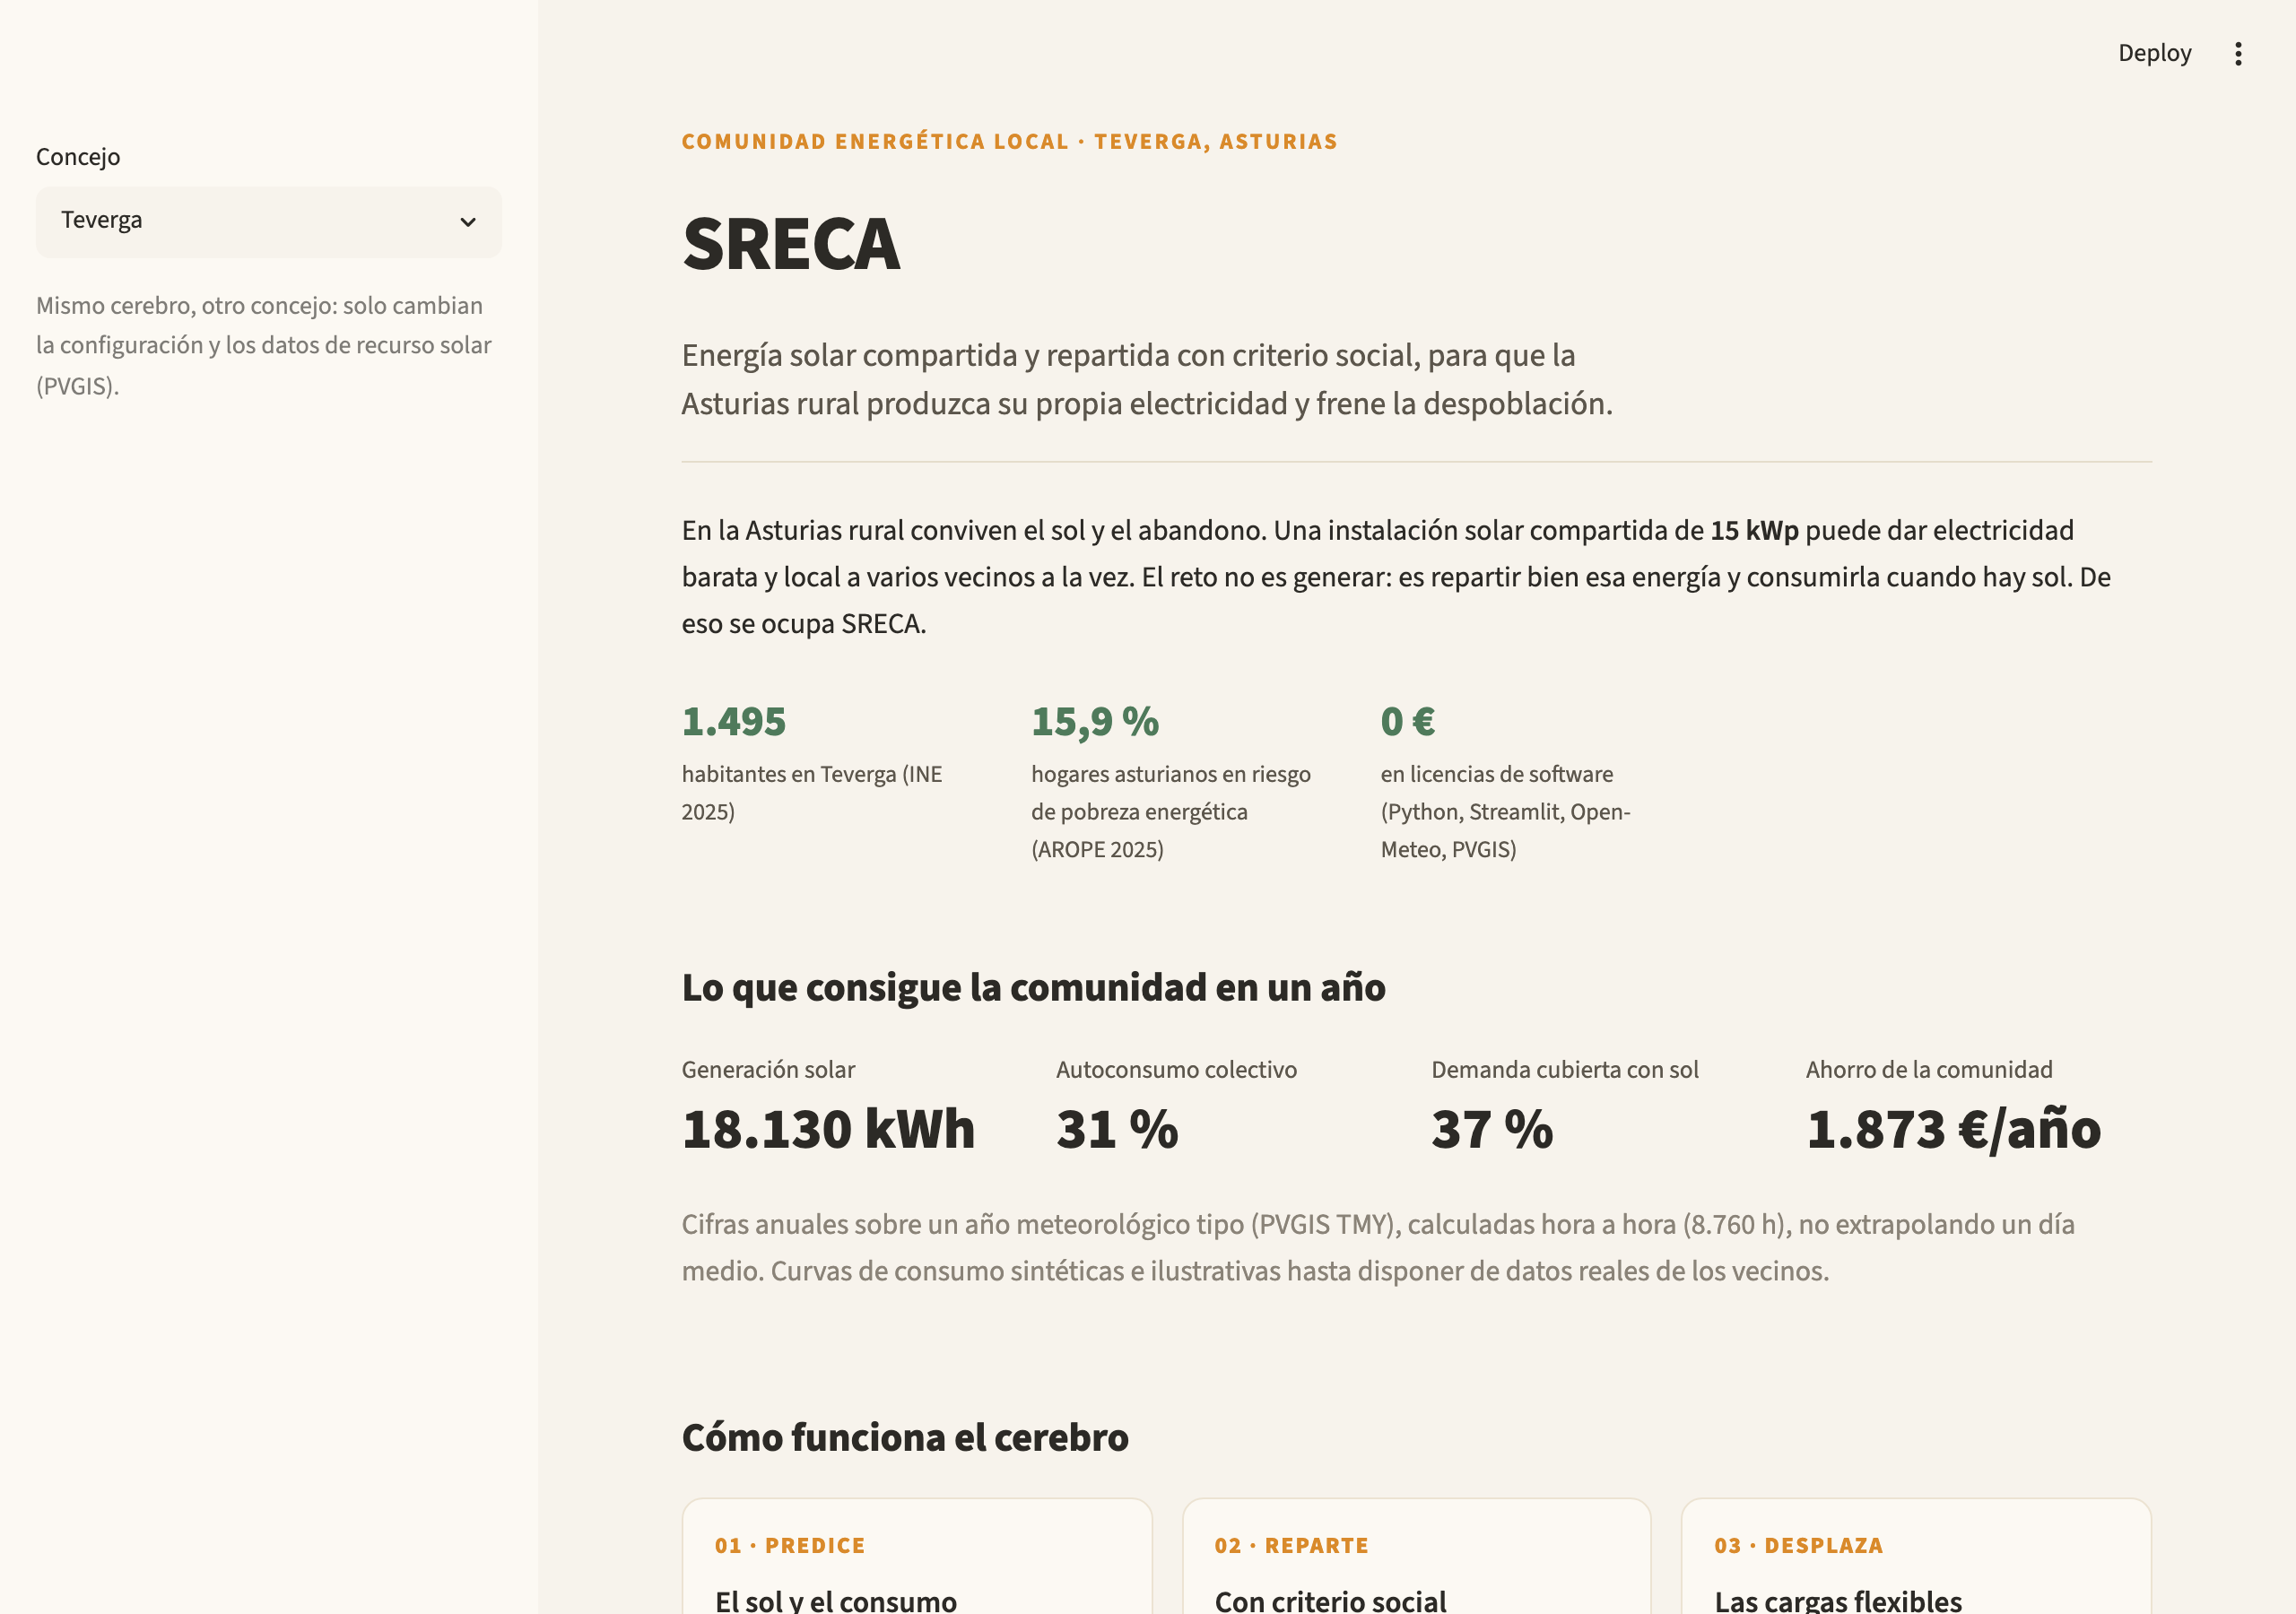
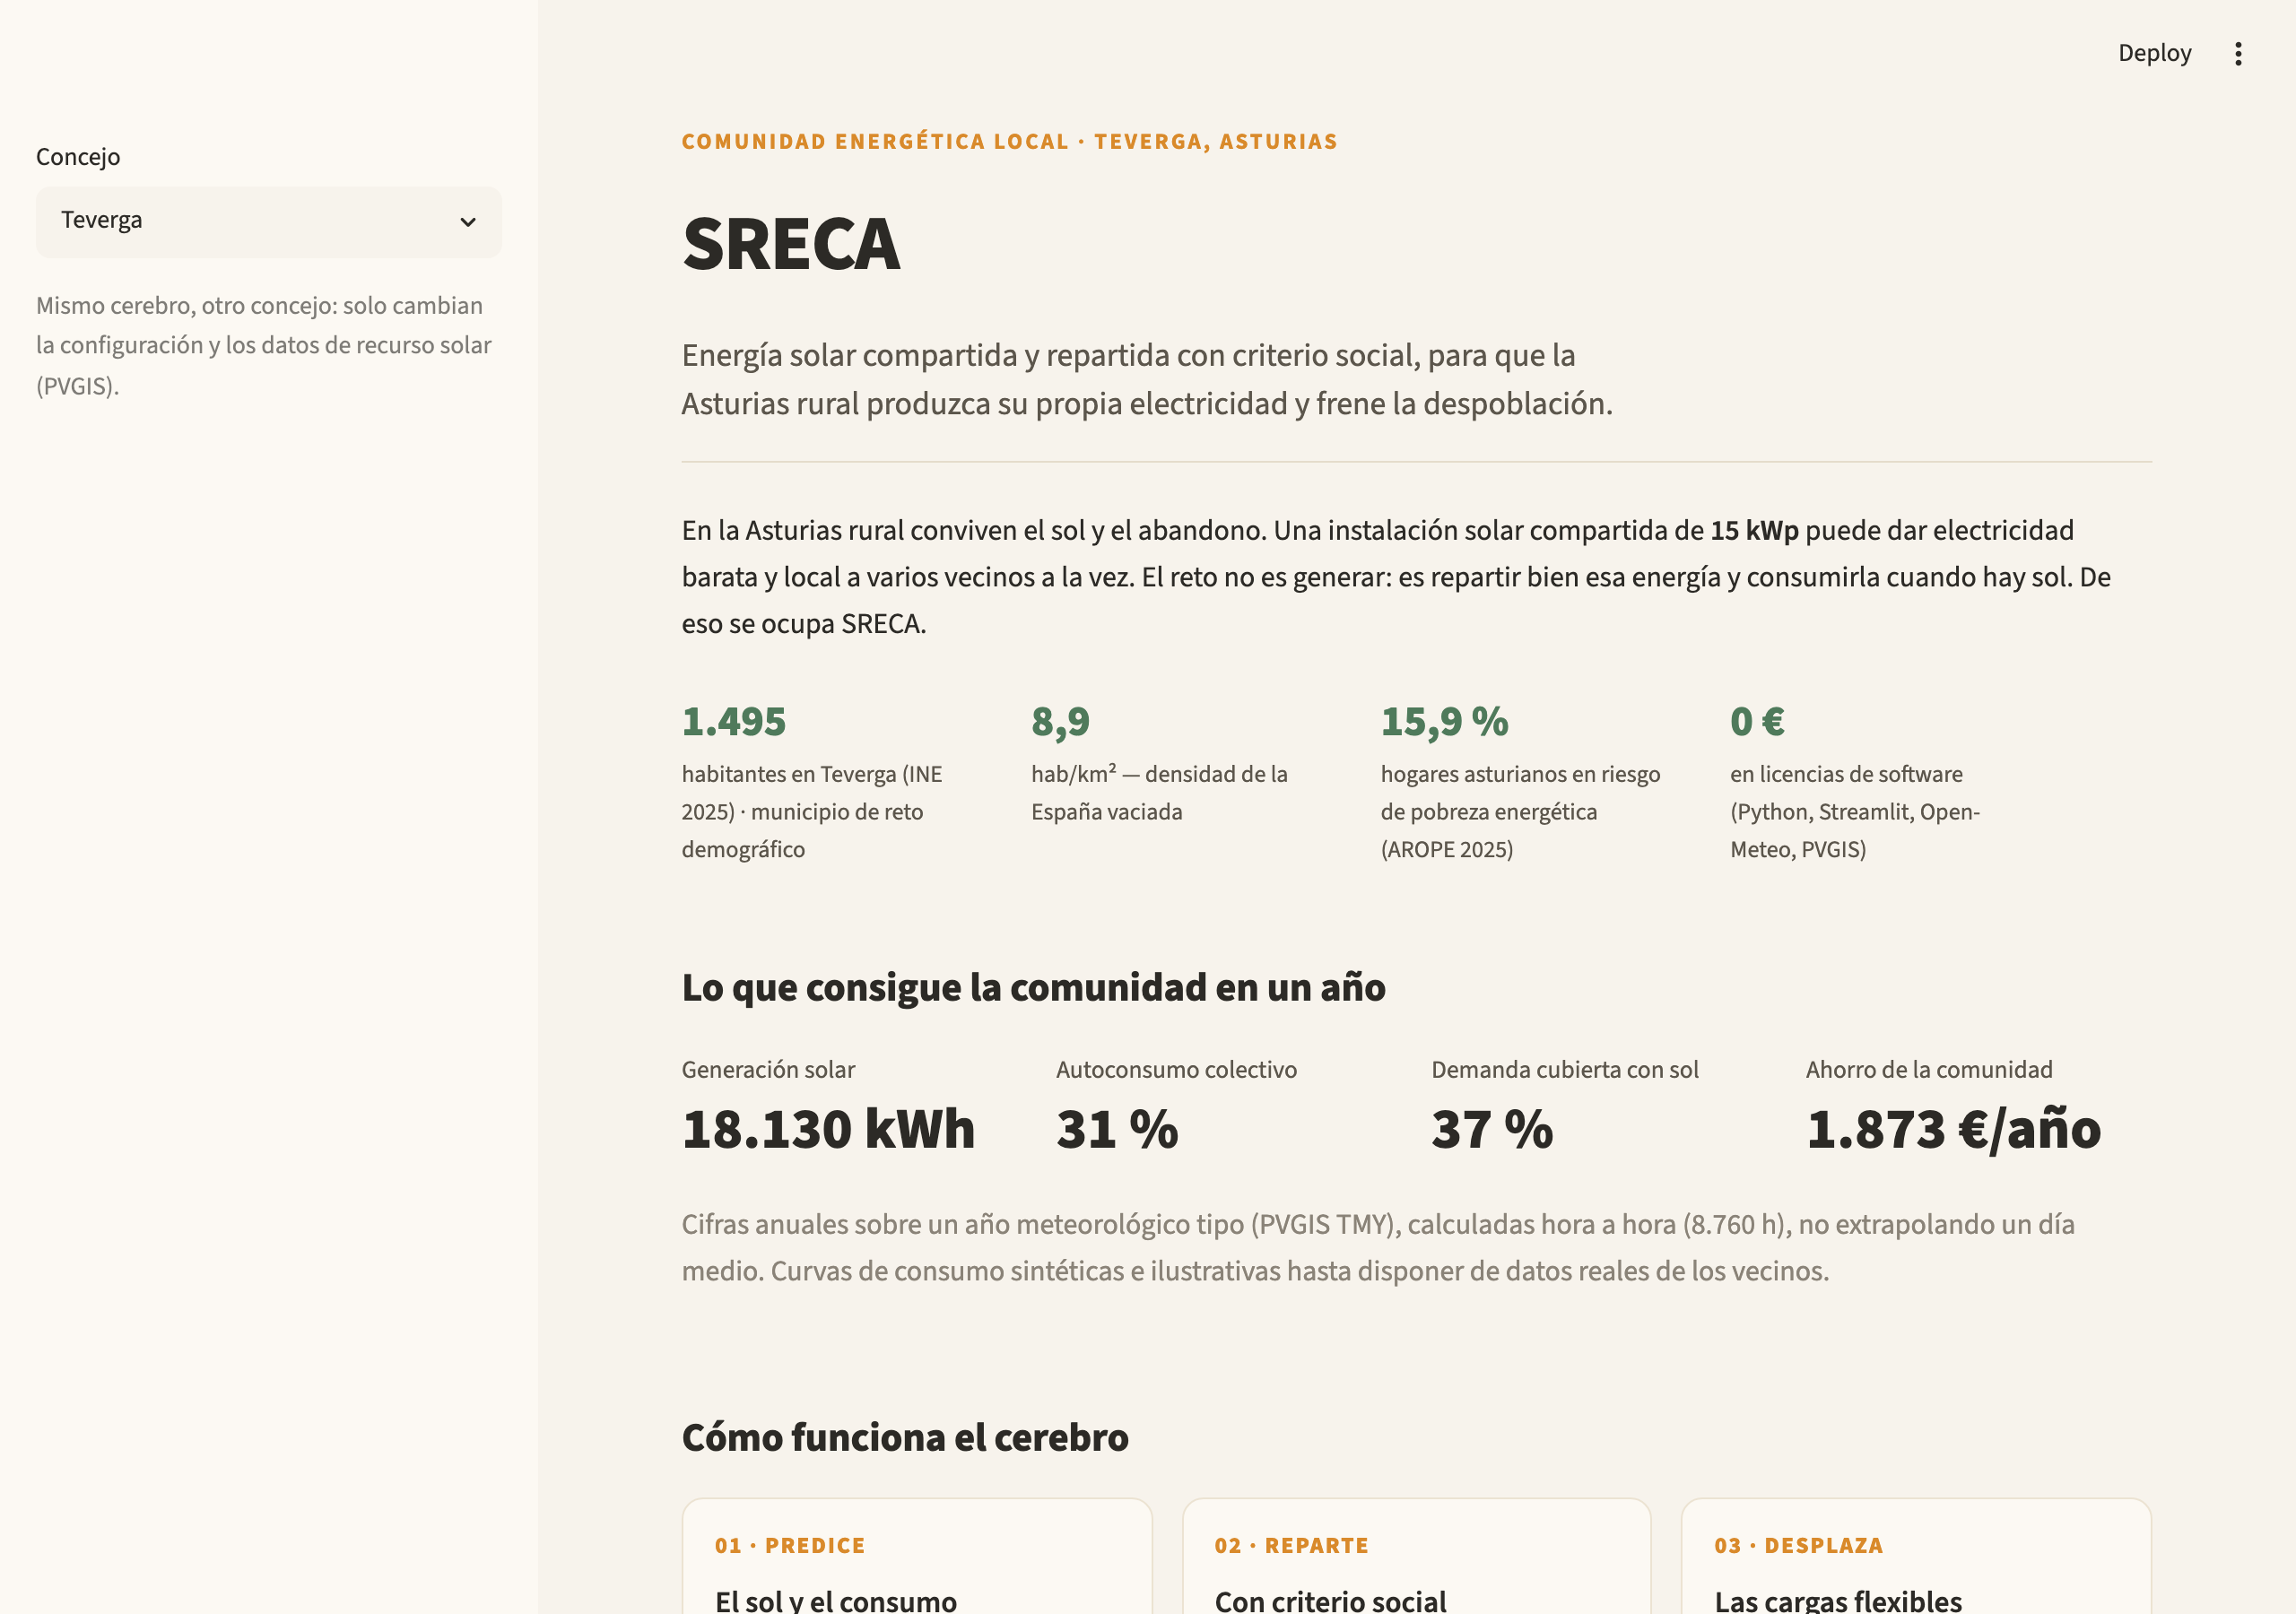
Ground the dashboard in source-verified official data
Replace placeholder/missing demographic figures with INE padrón data
verified directly against the source (tempus API table 2886), not search
summaries: Teverga 1.495 and Somiedo 1.031 (1-ene-2025), each with its
official surface area. Density is now derived (population/area), never
duplicated. Somiedo's population was deliberately blank ("no fabricated
public number") until this at-source verification; now filled.

Add a minimal territory/reto-demográfico element to the dashboard: both
pilot concejos sit below 5.000 hab (the CE IMPLEMENTA / Caja Rural
"impulso demográfico" target band) and below the rural-density line — the
funding rationale made visible. Pure territory_context() in the data
layer (unit-tested), thin render in the view, no trend chart.

Document price provenance conservatively: PVPC 2026 retail and surplus
compensation observed ranges, with the conservative end chosen to avoid
overclaiming savings (spec §6). New docs/2026-06-22-official-data-sources.md
records INE/PVPC provenance, the Caja Rural programme findings (becas de
excelencia read as academic-merit; project-fit programmes are the
empresarial ones / Premio Talento with EPI Gijón), and the decision to
defer REE residential load profiles to fase 2.

Regenerate the README screenshots to show the new facts. 76 tests pass.

diff --git a/tests/test_concejo.py b/tests/test_concejo.py
@@ -61,8 +61,37 @@ def test_available_concejos_lists_configured():
     assert concejos == sorted(concejos)
 
 
-def test_population_optional_per_concejo():
-    # Teverga has a verified figure; Somiedo deliberately omits it (no fabricated public number).
-    assert load_concejo("teverga").population == 1495
-    assert load_concejo("teverga").population_year == 2025
-    assert load_concejo("somiedo").population is None
+def test_population_verified_at_source_per_concejo():
+    # Both figures verified at the INE source (tempus API, table 2886, padrón 1-ene-2025).
+    # The invariant is "no fabricated public number", not "Somiedo stays blank": once the
+    # official figure is confirmed at source it is filled in.
+    teverga = load_concejo("teverga")
+    somiedo = load_concejo("somiedo")
+    assert teverga.population == 1495 and teverga.population_year == 2025
+    assert somiedo.population == 1031 and somiedo.population_year == 2025
+
+
+def test_area_and_density_per_concejo():
+    # area_km2 is the official surface; density is derived (pop/area), not a duplicated figure.
+    teverga = load_concejo("teverga")
+    somiedo = load_concejo("somiedo")
+    assert teverga.area_km2 == 168.71
+    assert somiedo.area_km2 == 291.38
+    assert teverga.density_hab_km2 == pytest.approx(1495 / 168.71, abs=0.01)
+    assert somiedo.density_hab_km2 == pytest.approx(1031 / 291.38, abs=0.01)
+
+
+def test_density_none_when_area_or_population_missing(tmp_path):
+    # No area or no population → no density (never invent the denominator).
+    (tmp_path / "x.yaml").write_text(
+        "concejo: X\n"
+        "site: {lat: 43.0, lon: -6.0, tilt_deg: 35, azimuth_deg: 180}\n"
+        "pv: {kwp: 15, system_losses: 0.14, noct_c: 45, gamma_pmp_per_c: -0.0035}\n"
+        "prices: {retail_eur_kwh: 0.20, compensation_eur_kwh: 0.06}\n"
+        "legal: {proximidad_max_m: 5000, coefficient_mode: ex_ante}\n"
+        "participants: [{id: a, profile: residencial_mayor_diurno, renta_priority: 3, daily_kwh: 8.0}]\n"
+    )
+    cfg = load_concejo("x", config_dir=tmp_path)
+    assert cfg.area_km2 is None
+    assert cfg.population is None
+    assert cfg.density_hab_km2 is None

diff --git a/sreca/dashboard/data.py b/sreca/dashboard/data.py
@@ -10,7 +10,7 @@ from functools import lru_cache
 
 import pandas as pd
 
-from sreca.concejo import load_concejo
+from sreca.concejo import ConcejoConfig, load_concejo
 from sreca.datasets import climatology_path
 from sreca.optimize.load_shift import recommend_flexible_load_shift
 from sreca.report import AnnualSummary, annual_summary
@@ -37,6 +37,38 @@ class CommunityKPIs:
     savings_eur: float             # total community savings (€)
     self_consumption_rate: float   # Σ self_consumed / Σ generation (0..1)
     demand_coverage: float         # Σ self_consumed / Σ demand (0..1)
+
+
+# CE IMPLEMENTA / RDL 7/2026 target band: municipios de reto demográfico (< 5.000 hab).
+# It is the public funding rationale this project addresses (see docs/2026-06-22-official-data-sources.md).
+RETO_DEMOGRAFICO_MAX_HAB = 5000
+
+
+@dataclass(frozen=True)
+class TerritoryContext:
+    concejo: str
+    population: int | None
+    population_year: int | None
+    area_km2: float | None
+    density_hab_km2: float | None
+    is_reto_demografico: bool       # municipio < 5.000 hab (CE IMPLEMENTA / reto demográfico)
+
+
+def territory_context(cfg: ConcejoConfig) -> TerritoryContext:
+    """Demographic framing for a concejo, straight from its config (pure, no DB).
+
+    Ties the app to its funding rationale: the pilot concejos are small, low-density
+    municipios de reto demográfico. Density is derived in the config; never fabricated here.
+    """
+    pop = cfg.population
+    return TerritoryContext(
+        concejo=cfg.concejo,
+        population=pop,
+        population_year=cfg.population_year,
+        area_km2=cfg.area_km2,
+        density_hab_km2=cfg.density_hab_km2,
+        is_reto_demografico=(pop is not None and pop < RETO_DEMOGRAFICO_MAX_HAB),
+    )
 
 
 def community_kpis(d: DashboardData) -> CommunityKPIs:

diff --git a/tests/test_dashboard_data.py b/tests/test_dashboard_data.py
@@ -95,6 +95,23 @@ def test_load_dashboard_data_selects_by_concejo(tmp_path):
     assert data.load_dashboard_data(db_path).concejo == "Somiedo"
 
 
+def test_territory_context_marks_reto_demografico():
+    # The thesis made visible: both pilot concejos are < 5.000 hab (CE IMPLEMENTA / reto
+    # demográfico target) and below the rural-density line — pure function, no DB needed.
+    from sreca.concejo import load_concejo
+
+    t = data.territory_context(load_concejo("teverga"))
+    assert t.population == 1495
+    assert t.population_year == 2025
+    assert t.density_hab_km2 == pytest.approx(1495 / 168.71, abs=0.01)
+    assert t.is_reto_demografico is True
+
+    s = data.territory_context(load_concejo("somiedo"))
+    assert s.population == 1031
+    assert s.density_hab_km2 == pytest.approx(1031 / 291.38, abs=0.01)
+    assert s.is_reto_demografico is True
+
+
 def test_load_dashboard_data_empty_db_returns_none(tmp_path):
     db_path = str(tmp_path / "empty.sqlite")
     conn = db.connect(db_path)

diff --git a/sreca/dashboard/app.py b/sreca/dashboard/app.py
@@ -107,7 +107,7 @@ def render(db_path: str = DEFAULT_DB, concejo: str = DEFAULT_CONCEJO) -> None:
     import streamlit as st
 
     from sreca.concejo import available_concejos, load_concejo
-    from sreca.dashboard.data import load_dashboard_data
+    from sreca.dashboard.data import load_dashboard_data, territory_context
 
     st.set_page_config(page_title="SRECA, Comunidad Energética Local", page_icon="☀️",
                        layout="wide")
@@ -151,12 +151,18 @@ def render(db_path: str = DEFAULT_DB, concejo: str = DEFAULT_CONCEJO) -> None:
         "no es generar: es repartir bien esa energía y consumirla cuando hay sol. De eso se "
         "ocupa SRECA."
     )
+    t = territory_context(cfg)
     facts = []
-    if cfg.population:
-        pop = f"{cfg.population:,}".replace(",", ".")
-        yr = f" (INE {cfg.population_year})" if cfg.population_year else ""
+    if t.population:
+        pop = f"{t.population:,}".replace(",", ".")
+        yr = f" (INE {t.population_year})" if t.population_year else ""
+        tag = " · municipio de reto demográfico" if t.is_reto_demografico else ""
         facts.append(f'<div class="f"><div class="n">{pop}</div>'
-                     f'<div class="l">habitantes en {cfg.concejo}{yr}</div></div>')
+                     f'<div class="l">habitantes en {cfg.concejo}{yr}{tag}</div></div>')
+    if t.density_hab_km2 is not None:
+        dens = f"{t.density_hab_km2:.1f}".replace(".", ",")
+        facts.append(f'<div class="f"><div class="n">{dens}</div>'
+                     f'<div class="l">hab/km² — densidad de la España vaciada</div></div>')
     facts.append('<div class="f"><div class="n">15,9 %</div><div class="l">hogares asturianos en '
                  'riesgo de pobreza energética (AROPE 2025)</div></div>')
     facts.append('<div class="f"><div class="n">0 €</div><div class="l">en licencias de software '

diff --git a/sreca/concejo.py b/sreca/concejo.py
@@ -63,6 +63,15 @@ class ConcejoConfig:
     participants: list[Participant]
     population: int | None = None        # habitantes (per-concejo, opcional)
     population_year: int | None = None   # año del dato de población
+    area_km2: float | None = None        # superficie oficial del concejo (km²)
+
+    @property
+    def density_hab_km2(self) -> float | None:
+        """Densidad derivada (pob/superficie). None si falta cualquiera de los dos —
+        nunca se inventa el denominador."""
+        if self.population is None or self.area_km2 is None:
+            return None
+        return self.population / self.area_km2
 
 
 def available_concejos(config_dir: Path | None = None) -> list[str]:
@@ -109,4 +118,5 @@ def load_concejo(name: str, config_dir: Path | None = None) -> ConcejoConfig:
         participants=participants,
         population=raw.get("population"),
         population_year=raw.get("population_year"),
+        area_km2=raw.get("area_km2"),
     )

diff --git a/docs/2026-06-22-official-data-sources.md b/docs/2026-06-22-official-data-sources.md
@@ -1,0 +1,94 @@
+---
+type: reference
+status: verified
+tags: [sreca, datos, oficiales, ine, pvpc, caja-rural, demografia]
+created: 2026-06-22
+related: [PROJECT.md, config/concejos/teverga.yaml, config/concejos/somiedo.yaml]
+---
+
+# SRECA — Fuentes de datos oficiales (verificación 2026-06-22)
+
+Registra la procedencia de las cifras públicas que alimentan la app, verificadas **en
+fuente** (no en resúmenes de buscador). Misma ética de fidelidad que el resto del proyecto:
+no se inventa un dato público y se documenta de dónde sale.
+
+## 1. Demografía — INE, Padrón Municipal (cifras oficiales a 1-ene)
+
+Verificado **directamente contra la fuente** (API tempus3 del INE, tabla 2886
+`Población por municipios y sexo`), no contra terceros. Los resúmenes de buscador discrepaban
+(asturias.com daba 1.565 / 1.083; eran cifras antiguas), así que se fue al origen:
+
+```
+GET https://servicios.ine.es/wstempus/js/ES/DATOS_TABLA/2886?nult=2&det=2
+```
+
+| Concejo | Población 2025 | Población 2024 | Δ interanual | Superficie | Densidad |
+|---|---|---|---|---|---|
+| **Teverga** | **1.495** | 1.539 | −2,9 % | 168,71 km² | ≈ 8,9 hab/km² |
+| **Somiedo** | **1.031** | 1.065 | −3,2 % | 291,38 km² | ≈ 3,5 hab/km² |
+
+Contexto de despoblación (refuerza la tesis, no entra en la app como serie): Somiedo registraba
+5.558 hab en 1940 → −70 % en 85 años; es el 2.º concejo de menor densidad de Asturias. Ambos
+concejos están **muy por debajo de 5.000 hab** → banda de *municipios de reto demográfico* que
+es justo el objetivo de CE IMPLEMENTA (IDAE) y del "impulso demográfico" de Caja Rural.
+
+- `population` / `population_year` / `area_km2` viven en cada YAML de concejo. La **densidad se
+  deriva** (`ConcejoConfig.density_hab_km2 = población / superficie`); nunca se duplica el dato.
+- Somiedo tenía la población deliberadamente en blanco ("no se inventa un dato público") hasta
+  esta verificación en fuente; ahora se rellena con la cifra oficial.
+
+## 2. Precios de electricidad — PVPC 2026 (conservadores, anti-overclaim)
+
+| Parámetro | Valor en config | Realidad jun-2026 | Por qué este valor |
+|---|---|---|---|
+| `retail_eur_kwh` | 0,20 | PVPC ~0,16–0,22 €/kWh | coste evitado del kWh autoconsumido; punto medio del rango |
+| `compensation_eur_kwh` | 0,06 | excedente PVPC ~0,06–0,10 €/kWh | extremo **conservador** para no inflar el ahorro |
+
+- Compensación de excedentes = mecanismo simplificado del **RD 244/2019**; desde 2026 la PVPC
+  se factura en tramos **cuarto-horarios** (96 precios/día), de modo que el precio del excedente
+  varía hora a hora (el 20-jun-2026 la media diaria fue ~0,065 €/kWh; el 22-jun ~0,099 €/kWh).
+- **No se fija una "media anual" inventada** desde una página diaria: sería falsa precisión.
+  Se elige el extremo conservador del rango observado. Esto es coherente con el aviso
+  anti-overclaim de la spec §6 (la demanda esperada rinde por debajo de la realizada): el
+  proyecto prefiere subestimar el ahorro a inflarlo.
+- Fuente del rango: REE/ESIOS (precio horario PVPC y excedentes), observado vía tarifasgasluz
+  (jun-2026). Los precios son **parametrizables por concejo**; cualquier CEL fija los suyos.
+
+## 3. Fundación Caja Rural de Asturias — qué busca (contexto de la beca)
+
+De `fundacioncajaruraldeasturias.com/innovacion-y-talento` y sus convocatorias públicas
+(jun-2026):
+
+- **Becas de Excelencia** (programa "Innovación y talento"): 100×1.000 € (grado/máster),
+  40×1.000 € (FP superior), 8×5.000 € (máster en España), 2×10.000 € (máster en el mundo).
+  Criterio declarado: **"premiar la excelencia"** → son becas de **mérito académico**.
+- **Premio Talento en la Ingeniería**: desarrollado **con la Escuela Politécnica de Ingeniería
+  de Gijón (EPI)** — la facultad de Pablo. Reconoce trayectoria/proyección profesional en
+  ingeniería vinculada a Asturias.
+- **"Imagina tu empresa en Asturias"**: programa empresarial; incluye **"impulso demográfico"**
+  entre sus objetivos (una beca empresarial de 6.000 € cerraba el 22-jun-2026).
+- Línea editorial repetida: *"proyectos que conectan tecnología, sostenibilidad y territorio"*,
+  *"vocación innovadora, compromiso con su entorno, potencial de impacto"*. SRECA encaja de
+  lleno: tecnología (cerebro software 0 €) + sostenibilidad (FV) + territorio (concejo rural) +
+  impacto (reto demográfico + pobreza energética).
+
+> **Punto de orientación para Pablo (no bloquea el desarrollo):** las *Becas de Excelencia*
+> leídas como están son premios de **mérito académico**, no convocatorias de *presentación de
+> proyecto*. Los programas con encaje de proyecto son los empresariales ("Imagina tu empresa")
+> y el Premio Talento (trayectoria profesional, no estudiante). Conviene confirmar a qué
+> convocatoria concreta se presenta SRECA antes de calibrar la narrativa de la memoria. El
+> trabajo de app/datos vale bajo cualquier lectura.
+
+## 4. Decisión — perfiles de demanda REE diferidos a fase 2
+
+Las curvas de consumo siguen siendo **sintéticas** (marcadas como ilustrativas en la app). REE
+publica perfiles de consumo residencial **oficiales, gratuitos y agregados** (no disparan RGPD)
+que podrían parametrizar esas curvas. **Decisión:** se difiere a fase 2.
+
+- *Por qué no ahora:* esta pasada es de pulido con datos oficiales puntuales (demografía,
+  precios); sustituir el modelo de demanda por perfiles REE es un cambio de modelo (re-calibrar
+  los perfiles `residencial_mayor_diurno` / `ganadero_lacteo`, nuevos tests de forma de curva),
+  no un cambio de dato. La demanda ya está honestamente etiquetada como sintética.
+- *Por qué merece la pena después:* es una palanca legítima de "datos oficiales" que reduce el
+  carácter sintético sin tocar RGPD. Candidato claro de fase 2 junto al ML de demanda (que sí
+  está gated por datos reales de los vecinos).

diff --git a/README.md b/README.md
@@ -16,9 +16,11 @@ energía solar entre vecinos y desplaza cargas flexibles a las horas de sol — 
 ## Estado
 
 MVP funcional, presentable. Slice vertical completo extremo a extremo (PVGIS → forecast →
-optimizador → SQLite → dashboard), 73 tests, dashboard verificado headless. Datos de consumo
-sintéticos (ilustrativos) hasta disponer de curvas reales de los vecinos. Despliegue público
-(Streamlit Cloud) pendiente de subir el repositorio a GitHub.
+optimizador → SQLite → dashboard), 76 tests, dashboard verificado headless. Demografía de los
+concejos verificada en fuente (INE, padrón 2025) y precios PVPC 2026 conservadores — ver
+`docs/2026-06-22-official-data-sources.md`. Datos de consumo sintéticos (ilustrativos) hasta
+disponer de curvas reales de los vecinos. Despliegue público (Streamlit Cloud) pendiente de
+configurar la app en share.streamlit.io.
 
 ## Cómo funciona (MVP)
 
@@ -49,6 +51,7 @@ docs/              # spec de diseño + verificación legal 2026
 
 - Spec de diseño: `docs/2026-06-19-sreca-mvp-design.md`
 - Verificación legal 2026: `docs/2026-06-19-legal-verification-2026.md`
+- Fuentes de datos oficiales (INE, PVPC, Caja Rural): `docs/2026-06-22-official-data-sources.md`
 - Memoria de beca e investigación de partida: documento interno (no incluido en el repo).
 
 ## Setup

diff --git a/PROJECT.md b/PROJECT.md
@@ -49,4 +49,5 @@ Excelencia de la Fundación Caja Rural de Asturias**.
 
 - Spec de diseño MVP: `docs/2026-06-19-sreca-mvp-design.md`
 - Verificación legal 2026: `docs/2026-06-19-legal-verification-2026.md`
+- Fuentes de datos oficiales (INE en fuente, PVPC 2026, encaje Caja Rural): `docs/2026-06-22-official-data-sources.md`
 - Memoria de beca e investigación de partida: documento interno (no incluido en el repo).